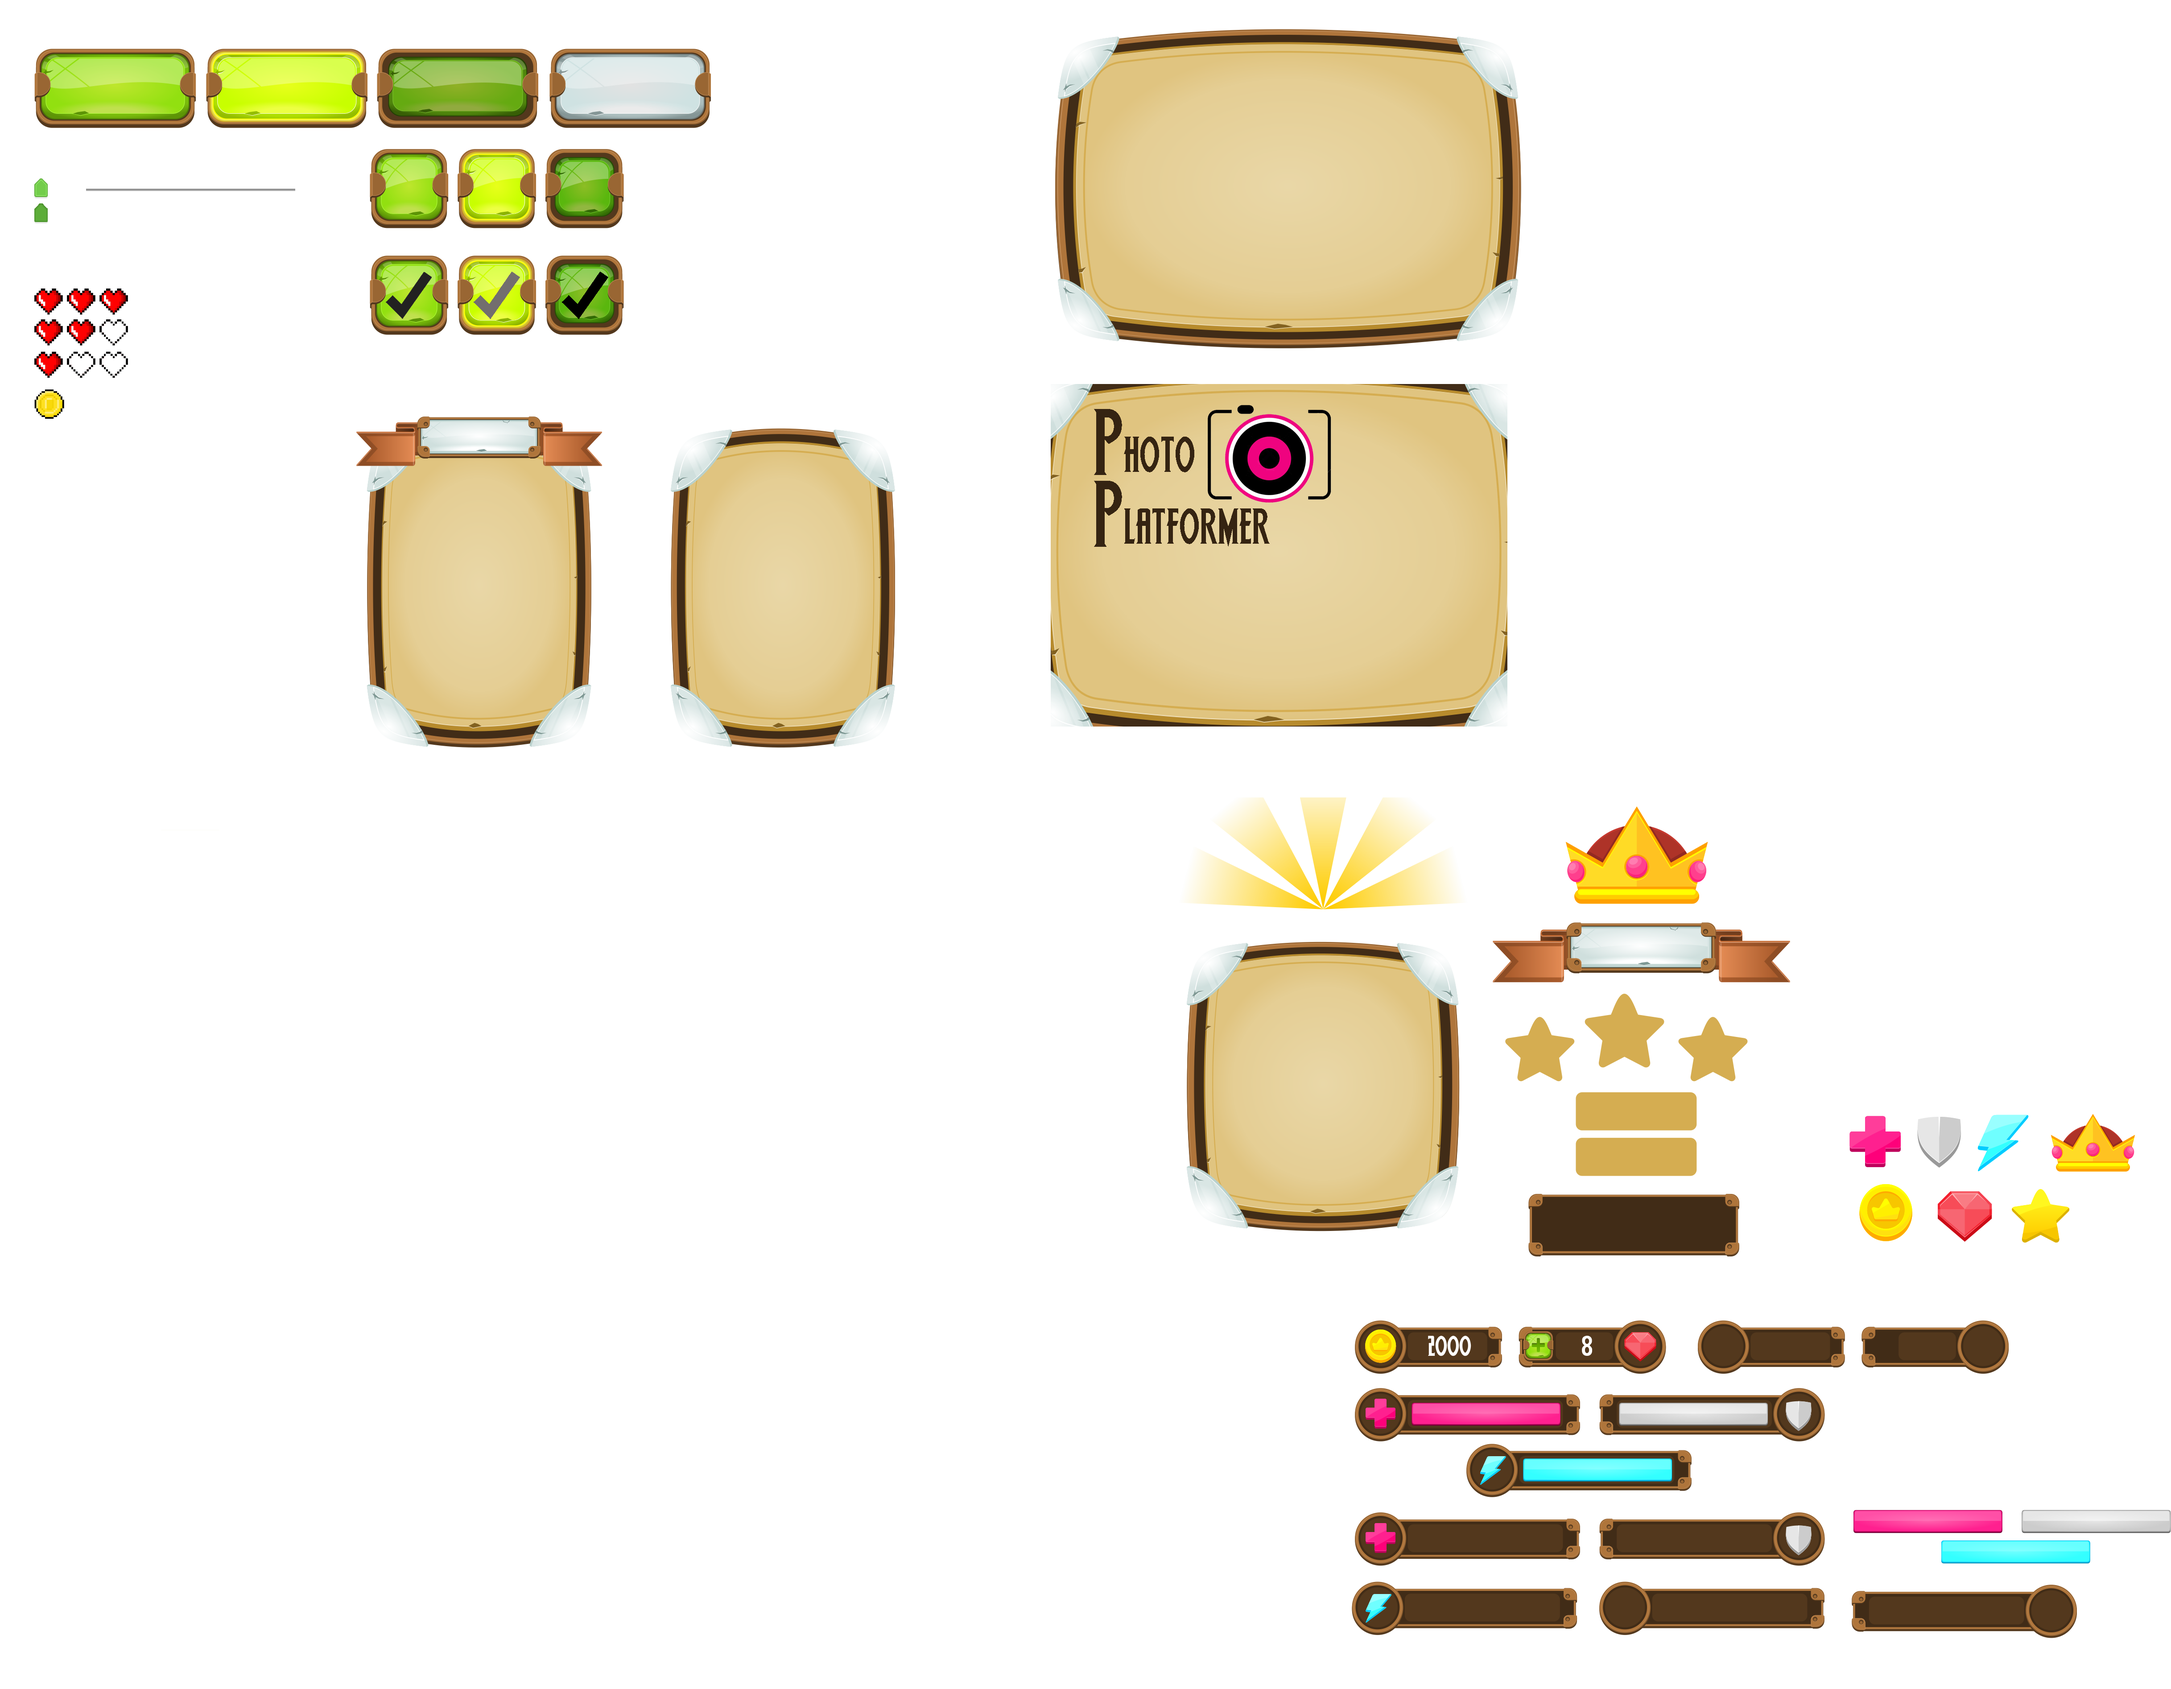
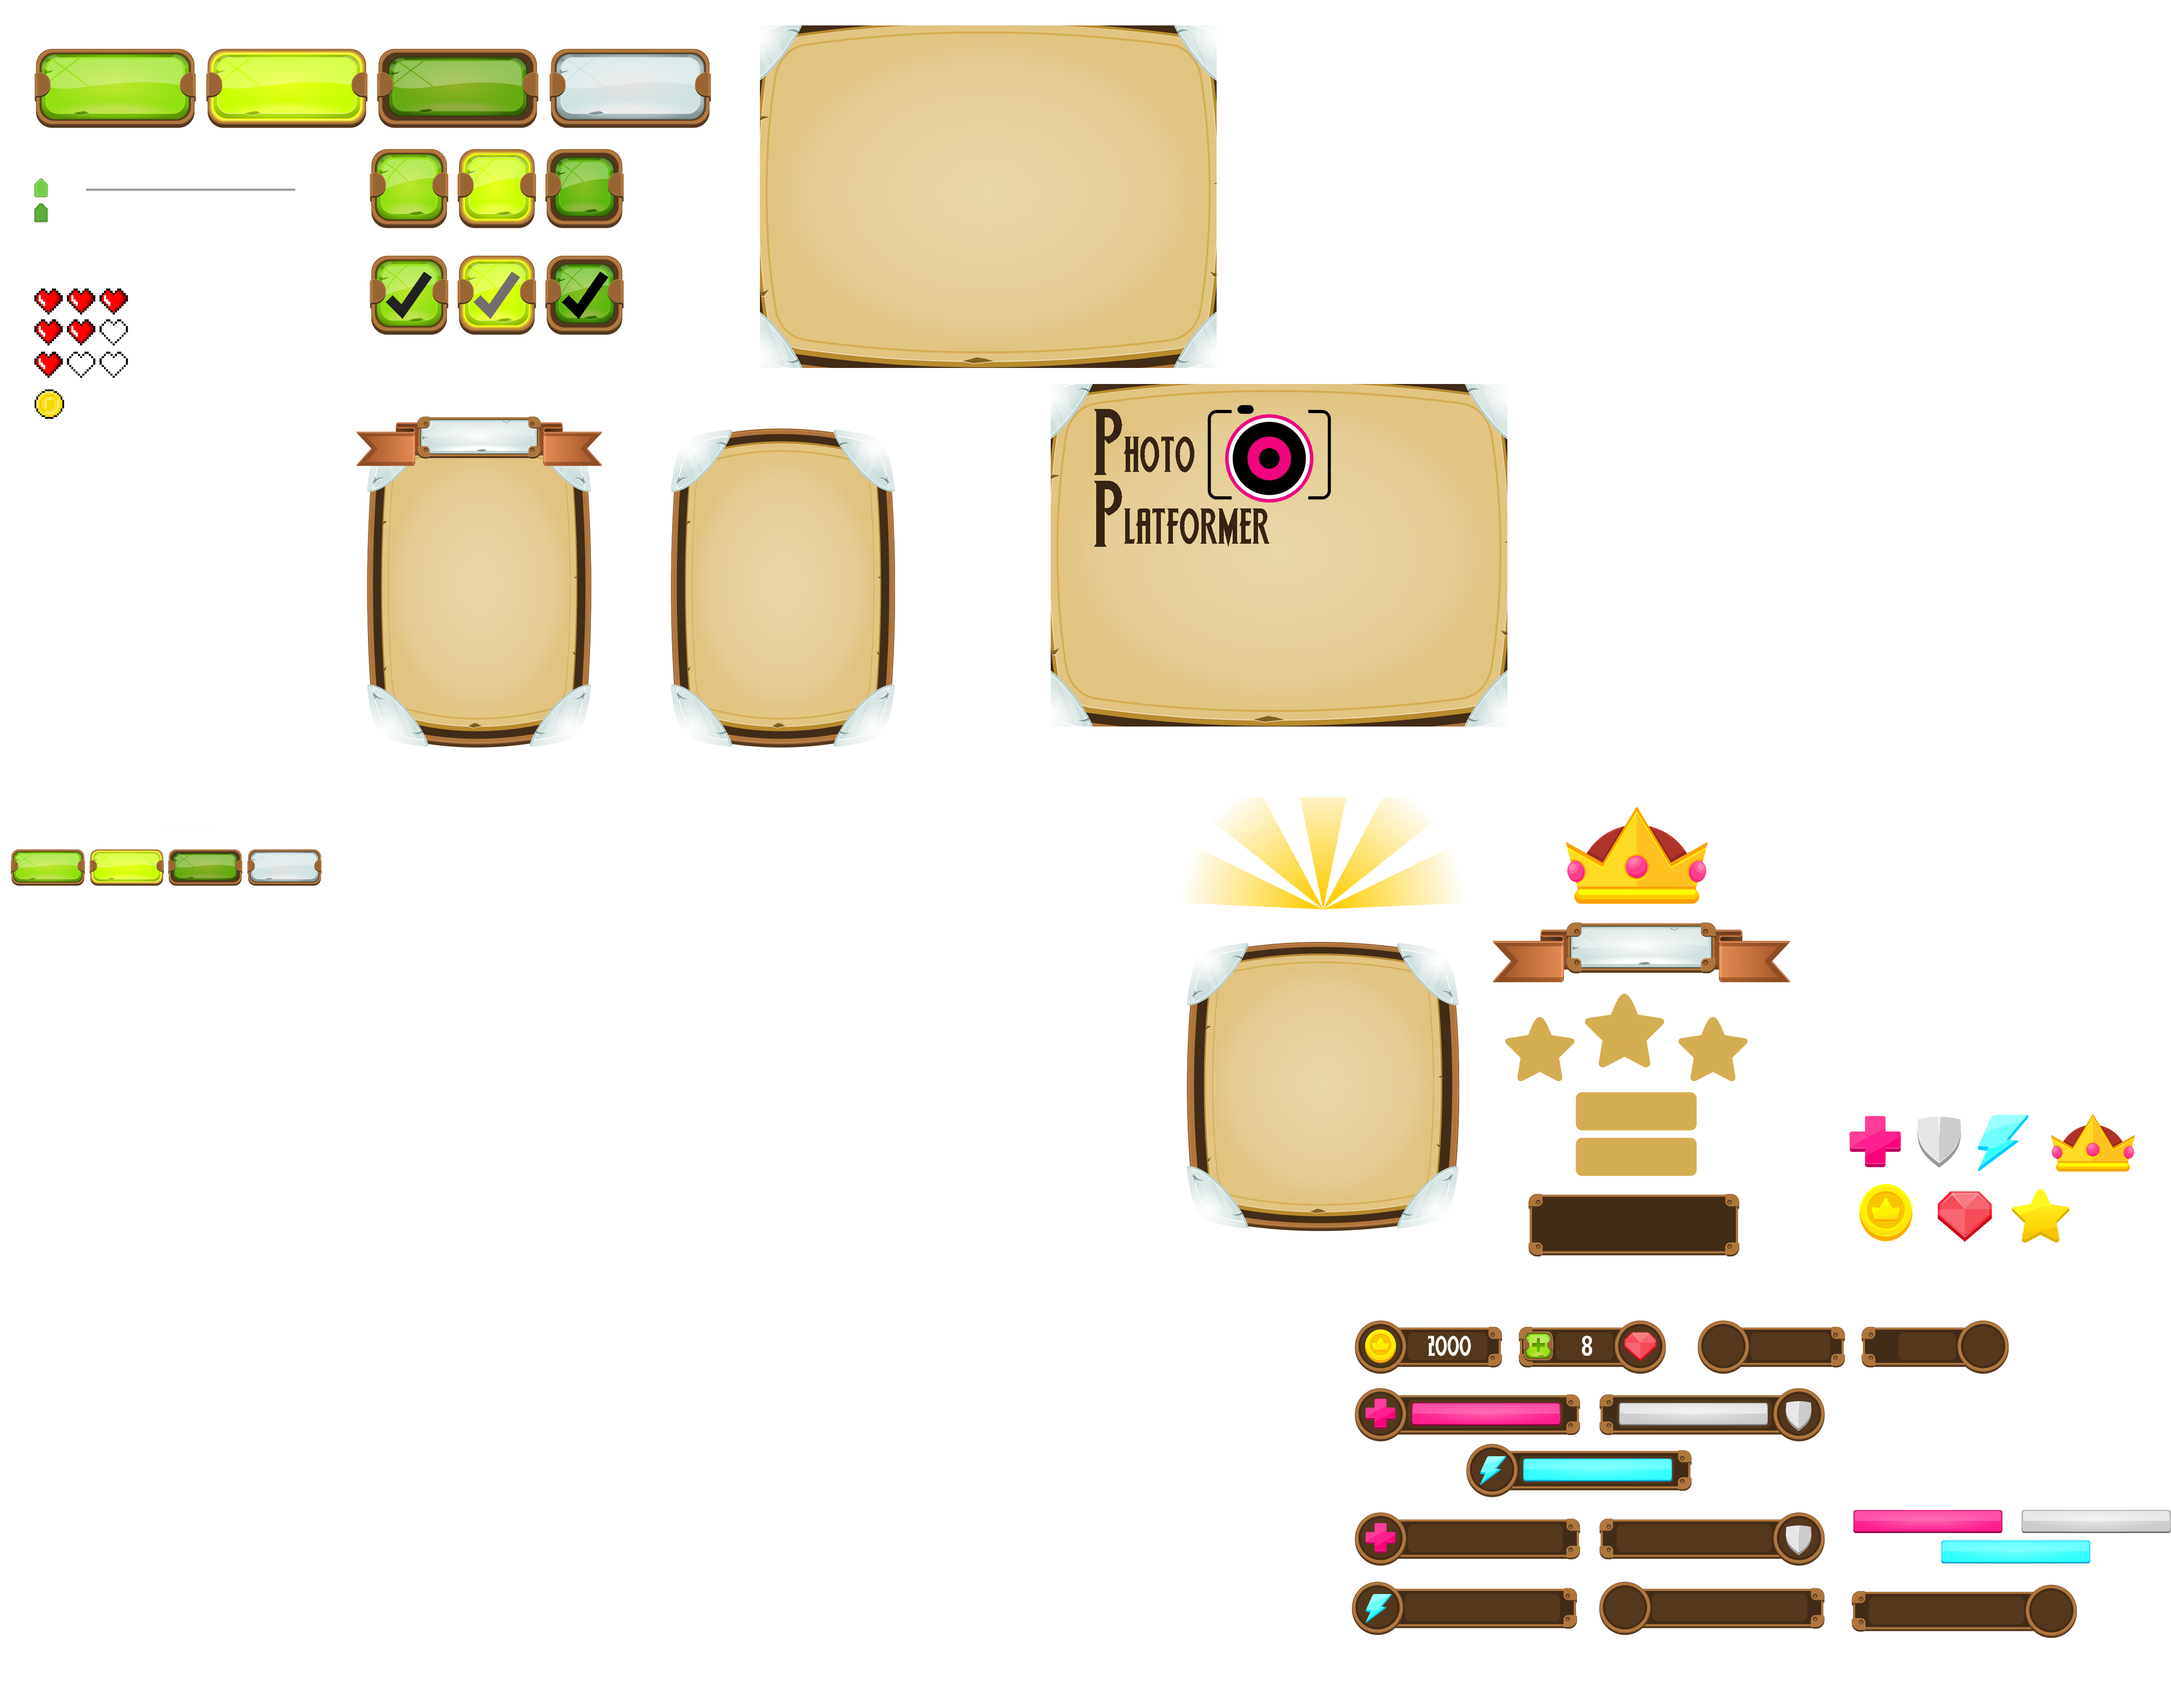
Play button, go to menu button, exit button, settings main menu added

Changed region(s): [[0.3435, 0.0, 0.7182, 0.2181], [0.0, 0.4985, 0.1561, 0.5297]]

diff --git a/JocDev/Motor2D/j1MainMenu.cpp b/JocDev/Motor2D/j1MainMenu.cpp
@@ -4,6 +4,7 @@
 #include "j1Input.h"
 #include "j1FadetoBlack.h"
 #include "j1Gui.h"
+#include "j1Window.h"
 #include "p2Log.h"
 
 j1MainMenu::j1MainMenu()
@@ -82,9 +83,16 @@ bool j1MainMenu::Save(pugi::xml_node &) const
 void j1MainMenu::CreateMainMenu()
 {
 	panel = App->gui->CreateImage(fPoint(0,0), App->gui->screen, {2356, 861, 1024, 768}, true);
-	play_button = App->gui->CreateButton(fPoint((panel->position.w / 2) + 80, (panel->position.h / 2) - 250), panel, { 77, 109, 363, 178 }, { 462, 109, 362, 178 }, { 845, 109, 362, 178 }, UI::Button_Type::Play);
-	play_label = App->gui->CreateLabel(fPoint((panel->position.w / 2) + 180, (panel->position.h / 2) - 220), play_button, "Play", BLACK, "fonts/wolfsbane/wolfsbane2acad.ttf", 100);
-
+	play_button = App->gui->CreateButton(fPoint((panel->position.w / 2) + 230, (panel->position.h / 2) - 100), panel, { 24, 1904, 167, 82 }, { 200, 1904, 168, 82 }, { 376, 1904, 168, 82 }, UI::Button_Type::Play);
+	play_label = App->gui->CreateLabel(fPoint((panel->position.w / 2) + 285, (panel->position.h / 2) - 85), play_button, "Play", BLACK, "fonts/wolfsbane/wolfsbane2acad.ttf", 50);
+	continue_button = App->gui->CreateButton(fPoint((panel->position.w / 2) + 230, (panel->position.h / 2) - 10), panel, { 24, 1904, 167, 82 }, { 200, 1904, 168, 82 }, { 376, 1904, 168, 82 }, UI::Button_Type::Continue);
+	continue_label = App->gui->CreateLabel(fPoint((panel->position.w / 2) + 262, (panel->position.h / 2) + 5), play_button, "Continue", BLACK, "fonts/wolfsbane/wolfsbane2acad.ttf", 50);
+	main_settings_button = App->gui->CreateButton(fPoint((panel->position.w / 2) + 230, (panel->position.h / 2) + 80), panel, { 24, 1904, 167, 82 }, { 200, 1904, 168, 82 }, { 376, 1904, 168, 82 }, UI::Button_Type::Main_Settings_Menu);
+	main_settings_label = App->gui->CreateLabel(fPoint((panel->position.w / 2) + 262, (panel->position.h / 2) + 95), play_button, "Settings", BLACK, "fonts/wolfsbane/wolfsbane2acad.ttf", 50);
+	credits_button = App->gui->CreateButton(fPoint((panel->position.w / 2) + 230, (panel->position.h / 2) + 170), panel, { 24, 1904, 167, 82 }, { 200, 1904, 168, 82 }, { 376, 1904, 168, 82 }, UI::Button_Type::Credits);
+	credits_label = App->gui->CreateLabel(fPoint((panel->position.w / 2) + 265, (panel->position.h / 2) + 185), play_button, "Credits", BLACK, "fonts/wolfsbane/wolfsbane2acad.ttf", 50);
+	exit_button = App->gui->CreateButton(fPoint((panel->position.w / 2) + 230, (panel->position.h / 2) + 260), panel, { 24, 1904, 167, 82 }, { 200, 1904, 168, 82 }, { 376, 1904, 168, 82 }, UI::Button_Type::Exit);
+	exit_label = App->gui->CreateLabel(fPoint((panel->position.w / 2) + 290, (panel->position.h / 2) + 275), play_button, "Exit", BLACK, "fonts/wolfsbane/wolfsbane2acad.ttf", 50);
 }
 
 void j1MainMenu::DestroyMainMenu()
@@ -100,4 +108,94 @@ void j1MainMenu::DestroyMainMenu()
 	play_label->to_delete = true;
 	App->gui->DeleteElement(play_label);
 	play_label = nullptr;
+
+	continue_button->to_delete = true;
+	App->gui->DeleteElement(continue_button);
+	continue_button = nullptr;
+
+	continue_label->to_delete = true;
+	App->gui->DeleteElement(continue_label);
+	continue_label = nullptr;
+
+	main_settings_button->to_delete = true;
+	App->gui->DeleteElement(main_settings_button);
+	main_settings_button = nullptr;
+
+	main_settings_label->to_delete = true;
+	App->gui->DeleteElement(main_settings_label);
+	main_settings_label = nullptr;
+
+	credits_button->to_delete = true;
+	App->gui->DeleteElement(credits_button);
+	credits_button = nullptr;
+
+	credits_label->to_delete = true;
+	App->gui->DeleteElement(credits_label);
+	credits_label = nullptr;
+
+	exit_button->to_delete = true;
+	App->gui->DeleteElement(exit_button);
+	exit_button = nullptr;
+
+	exit_label->to_delete = true;
+	App->gui->DeleteElement(exit_label);
+	exit_label = nullptr;
+}
+
+void j1MainMenu::CreateSettingsMenu()
+{
+	//Panel
+	settings_panel = App->gui->CreateImage(fPoint(0, 0), App->gui->screen, { 1704, 57, 1024, 768 }, true);
+	App->gui->SetPosition(settings_panel, (App->win->GetWindowWidth() - settings_panel->position.w) / 2, (App->win->GetWindowHeight() - settings_panel->position.h) / 2);
+	//Slider
+	/*volume_level = App->gui->CreateImage(fPoint(0, 0), settings_panel, {}, true);*/
+	slider_volume = App->gui->CreateSlider(fPoint((settings_panel->position.w / 2) + 80, (settings_panel->position.h / 2) - 250), { 193, 423, 469, 10 }, Slider_TYPE::X, settings_panel);
+	thumb_button = App->gui->CreateButton(fPoint(500, 200), slider_volume, { 77, 400, 30, 45 }, { 77, 400, 30, 45 }, { 77, 456, 30, 45 }, UI::Button_Type::Slider);
+	slider_volume->AddThumb(thumb_button);
+
+	//CheckBox
+	fullscreen_checkbox = App->gui->CreateCheckbox(fPoint((settings_panel->position.w / 2) + 120, (settings_panel->position.h / 2) - 60), false, settings_panel, true, UI::CheckBox_Type::Fullscreen, { 829, 573, 177, 178 }, { 1026, 573, 176, 178 }, { 1223, 573, 176, 178 }, { 829, 334, 177, 178 }, { 1026, 334, 176, 178 }, { 1223, 334, 176, 178 });
+	fullscreen_label = App->gui->CreateLabel(fPoint((settings_panel->position.w / 2) -100, (settings_panel->position.h / 2) - 10), fullscreen_checkbox, "Fullscreen", BLACK, "fonts/wolfsbane/wolfsbane2acad.ttf", 90);
+	//Buttons	 
+	to_main_menu_button = App->gui->CreateButton(fPoint((settings_panel->position.w / 2) - 100, (settings_panel->position.h / 2) + 180), settings_panel, { 24, 1904, 167, 82 }, { 200, 1904, 168, 82 }, { 376, 1904, 168, 82 }, UI::Button_Type::Return);
+	to_main_menu_label = App->gui->CreateLabel(fPoint((settings_panel->position.w / 2) - 60, (settings_panel->position.h / 2) + 195), to_main_menu_button, "Return", BLACK, "fonts/wolfsbane/wolfsbane2acad.ttf", 50);
+}
+
+void j1MainMenu::DestroySettingsMenu()
+{
+	settings_panel->to_delete = true;
+	App->gui->DeleteElement(settings_panel);
+	settings_panel = nullptr;
+
+	slider_volume->to_delete = true;
+	App->gui->DeleteElement(slider_volume);
+	slider_volume = nullptr;
+
+	thumb_button->to_delete = true;
+	App->gui->DeleteElement(thumb_button);
+	thumb_button = nullptr;
+
+	fullscreen_checkbox->to_delete = true;
+	App->gui->DeleteElement(fullscreen_checkbox);
+	fullscreen_checkbox = nullptr;
+
+	fullscreen_label->to_delete = true;
+	App->gui->DeleteElement(fullscreen_label);
+	fullscreen_label = nullptr;
+
+	to_main_menu_button->to_delete = true;
+	App->gui->DeleteElement(to_main_menu_button);
+	to_main_menu_button = nullptr;
+
+	to_main_menu_label->to_delete = true;
+	App->gui->DeleteElement(to_main_menu_label);
+	to_main_menu_label = nullptr;
+}
+
+void j1MainMenu::CreateCreditsMenu()
+{
+}
+
+void j1MainMenu::DestroyCreditsMenu()
+{
 }

diff --git a/JocDev/Motor2D/j1Scene.cpp b/JocDev/Motor2D/j1Scene.cpp
@@ -182,13 +182,13 @@ void j1Scene::CreatePauseMenu()
 	
 	//Buttons
 	resume_button = App->gui->CreateButton(fPoint((panel->position.w / 2) +80, (panel->position.h / 2) -250), panel, {77, 109, 363, 178}, {462, 109, 362, 178}, {845, 109, 362, 178}, UI::Button_Type::Resume);
-	resume_label = App->gui->CreateLabel(fPoint((panel->position.w / 2) + 180, (panel->position.h / 2) - 220), resume_button, "Resume", BLACK, "fonts/wolfsbane/wolfsbane2acad.ttf", 100);
+	resume_label = App->gui->CreateLabel(fPoint((panel->position.w / 2) + 178, (panel->position.h / 2) - 220), resume_button, "Resume", BLACK, "fonts/wolfsbane/wolfsbane2acad.ttf", 100);
 
-	exit_button = App->gui->CreateButton(fPoint((panel->position.w / 2) + 80, (panel->position.h / 2) + 120), panel, { 77, 109, 363, 178 }, { 462, 109, 362, 178 }, { 845, 109, 362, 178 }, UI::Button_Type::Exit);
-	exit_label = App->gui->CreateLabel(fPoint((panel->position.w / 2) + 215, (panel->position.h / 2) + 150), resume_button, "Exit", BLACK, "fonts/wolfsbane/wolfsbane2acad.ttf", 100);
+	exit_button = App->gui->CreateButton(fPoint((panel->position.w / 2) + 80, (panel->position.h / 2) + 120), panel, { 77, 109, 363, 178 }, { 462, 109, 362, 178 }, { 845, 109, 362, 178 }, UI::Button_Type::Go_to_Menu);
+	exit_label = App->gui->CreateLabel(fPoint((panel->position.w / 2) + 152, (panel->position.h / 2) + 160), exit_button, "Go to Menu", BLACK, "fonts/wolfsbane/wolfsbane2acad.ttf", 80);
 
 	settings_button = App->gui->CreateButton(fPoint((panel->position.w / 2) + 80, (panel->position.h / 2) - 65), panel, { 77, 109, 363, 178 }, { 462, 109, 362, 178 }, { 845, 109, 362, 178 }, UI::Button_Type::Settings_Menu);
-	settings_label = App->gui->CreateLabel(fPoint((panel->position.w / 2) + 150, (panel->position.h / 2) - 25), settings_button, "Settings", BLACK, "fonts/wolfsbane/wolfsbane2acad.ttf", 100);
+	settings_label = App->gui->CreateLabel(fPoint((panel->position.w / 2) + 160, (panel->position.h / 2) - 30), settings_button, "Settings", BLACK, "fonts/wolfsbane/wolfsbane2acad.ttf", 100);
 }
 
 void j1Scene::DestroyPauseMenu()
@@ -238,7 +238,7 @@ void j1Scene::CreateSettingsMenu()
 	fullscreen_label = App->gui->CreateLabel(fPoint((settings_panel->position.w / 2) + 60, (settings_panel->position.h / 2) - 10), to_pause_menu_button, "Fullscreen", BLACK, "fonts/wolfsbane/wolfsbane2acad.ttf", 90);
 	//Buttons	 
 	to_pause_menu_button = App->gui->CreateButton(fPoint((settings_panel->position.w / 2) + 80, (settings_panel->position.h / 2) + 120), settings_panel, { 77, 109, 363, 178 }, { 462, 109, 362, 178 }, { 845, 109, 362, 178 }, UI::Button_Type::Return);
-	to_pause_menu_label = App->gui->CreateLabel(fPoint((settings_panel->position.w / 2) + 200, (settings_panel->position.h / 2) + 150), to_pause_menu_button, "Return", BLACK, "fonts/wolfsbane/wolfsbane2acad.ttf", 100);
+	to_pause_menu_label = App->gui->CreateLabel(fPoint((settings_panel->position.w / 2) + 170, (settings_panel->position.h / 2) + 150), to_pause_menu_button, "Return", BLACK, "fonts/wolfsbane/wolfsbane2acad.ttf", 100);
 }
 
 void j1Scene::DestroySettingsMenu()

diff --git a/JocDev/Motor2D/j1Gui.cpp b/JocDev/Motor2D/j1Gui.cpp
@@ -257,7 +257,9 @@ void Button::ClickLogic()
 	switch (type)
 	{
 	case Button_Type::Go_to_Menu:
-		//insert funtion
+		App->scene->DestroyPauseMenu();
+		App->current_level = 0;
+		App->fade->StartfadetoBlack();
 		break;
 	case Button_Type::Settings_Menu:
 		App->scene->DestroyPauseMenu();
@@ -267,6 +269,8 @@ void Button::ClickLogic()
 		App->exit = true;
 		break;
 	case Button_Type::Credits:
+		App->main_menu->DestroyMainMenu();
+		App->main_menu->CreateCreditsMenu();
 		break;
 	case Button_Type::Play:
 		App->current_level = 1;
@@ -284,8 +288,24 @@ void Button::ClickLogic()
 			App->audio->SetVolume(dynamic_cast<Slider*>(parent)->GetSliderValue());		
 		break;
 	case Button_Type::Return:
-		App->scene->DestroySettingsMenu();
-		App->scene->CreatePauseMenu();
+		if (App->scene->active == true)
+		{
+			App->scene->DestroySettingsMenu();
+			App->scene->CreatePauseMenu();
+		}
+		else if(App->main_menu->active == true)
+		{
+			App->main_menu->DestroySettingsMenu();
+			App->main_menu->CreateMainMenu();
+		}
+		break;
+	case Button_Type::Main_Settings_Menu:
+		App->main_menu->DestroyMainMenu();
+		App->main_menu->CreateSettingsMenu();
+		break;
+	case Button_Type::Return_MainMenu:
+		App->main_menu->DestroyCreditsMenu();
+		App->main_menu->CreateMainMenu();
 		break;
 	case Button_Type::No_button:
 		//insert funtion

diff --git a/JocDev/Motor2D/j1MainMenu.h b/JocDev/Motor2D/j1MainMenu.h
@@ -44,12 +44,21 @@ public:
 	void CreateMainMenu();
 
 	void DestroyMainMenu();
+
+	void CreateSettingsMenu();
+
+	void DestroySettingsMenu();
+
+	void CreateCreditsMenu();
+
+	void DestroyCreditsMenu();
+
 public:
 	uint win_width = 0;
 	uint win_height = 0;
 	bool can_load = false;
 
-	//GUI
+	//Main Menu
 	Image* panel = nullptr;
 	Button* play_button = nullptr;
 	Label* play_label = nullptr;
@@ -59,6 +68,19 @@ public:
 	Label* main_settings_label = nullptr;
 	Button* credits_button = nullptr;
 	Label* credits_label = nullptr;
+	Button* exit_button = nullptr;
+	Label* exit_label = nullptr;
 
+	//Settings Menu
+	Image* settings_panel = nullptr;
+	Image* volume_level = nullptr;
+	Slider* slider_volume = nullptr;
+	Button* to_main_menu_button = nullptr;
+	Label* to_main_menu_label = nullptr;
+	Button* thumb_button = nullptr;
+	CheckBox* fullscreen_checkbox = nullptr;
+	Label* fullscreen_label = nullptr;
+
+	//Credits Menu
 };
 #endif

diff --git a/JocDev/Motor2D/j1Gui.h b/JocDev/Motor2D/j1Gui.h
@@ -59,6 +59,8 @@ public:
 		Resume,
 		Slider,
 		Return,
+		Main_Settings_Menu,
+		Return_MainMenu,
 	};
 
 	enum class CheckBox_Type
